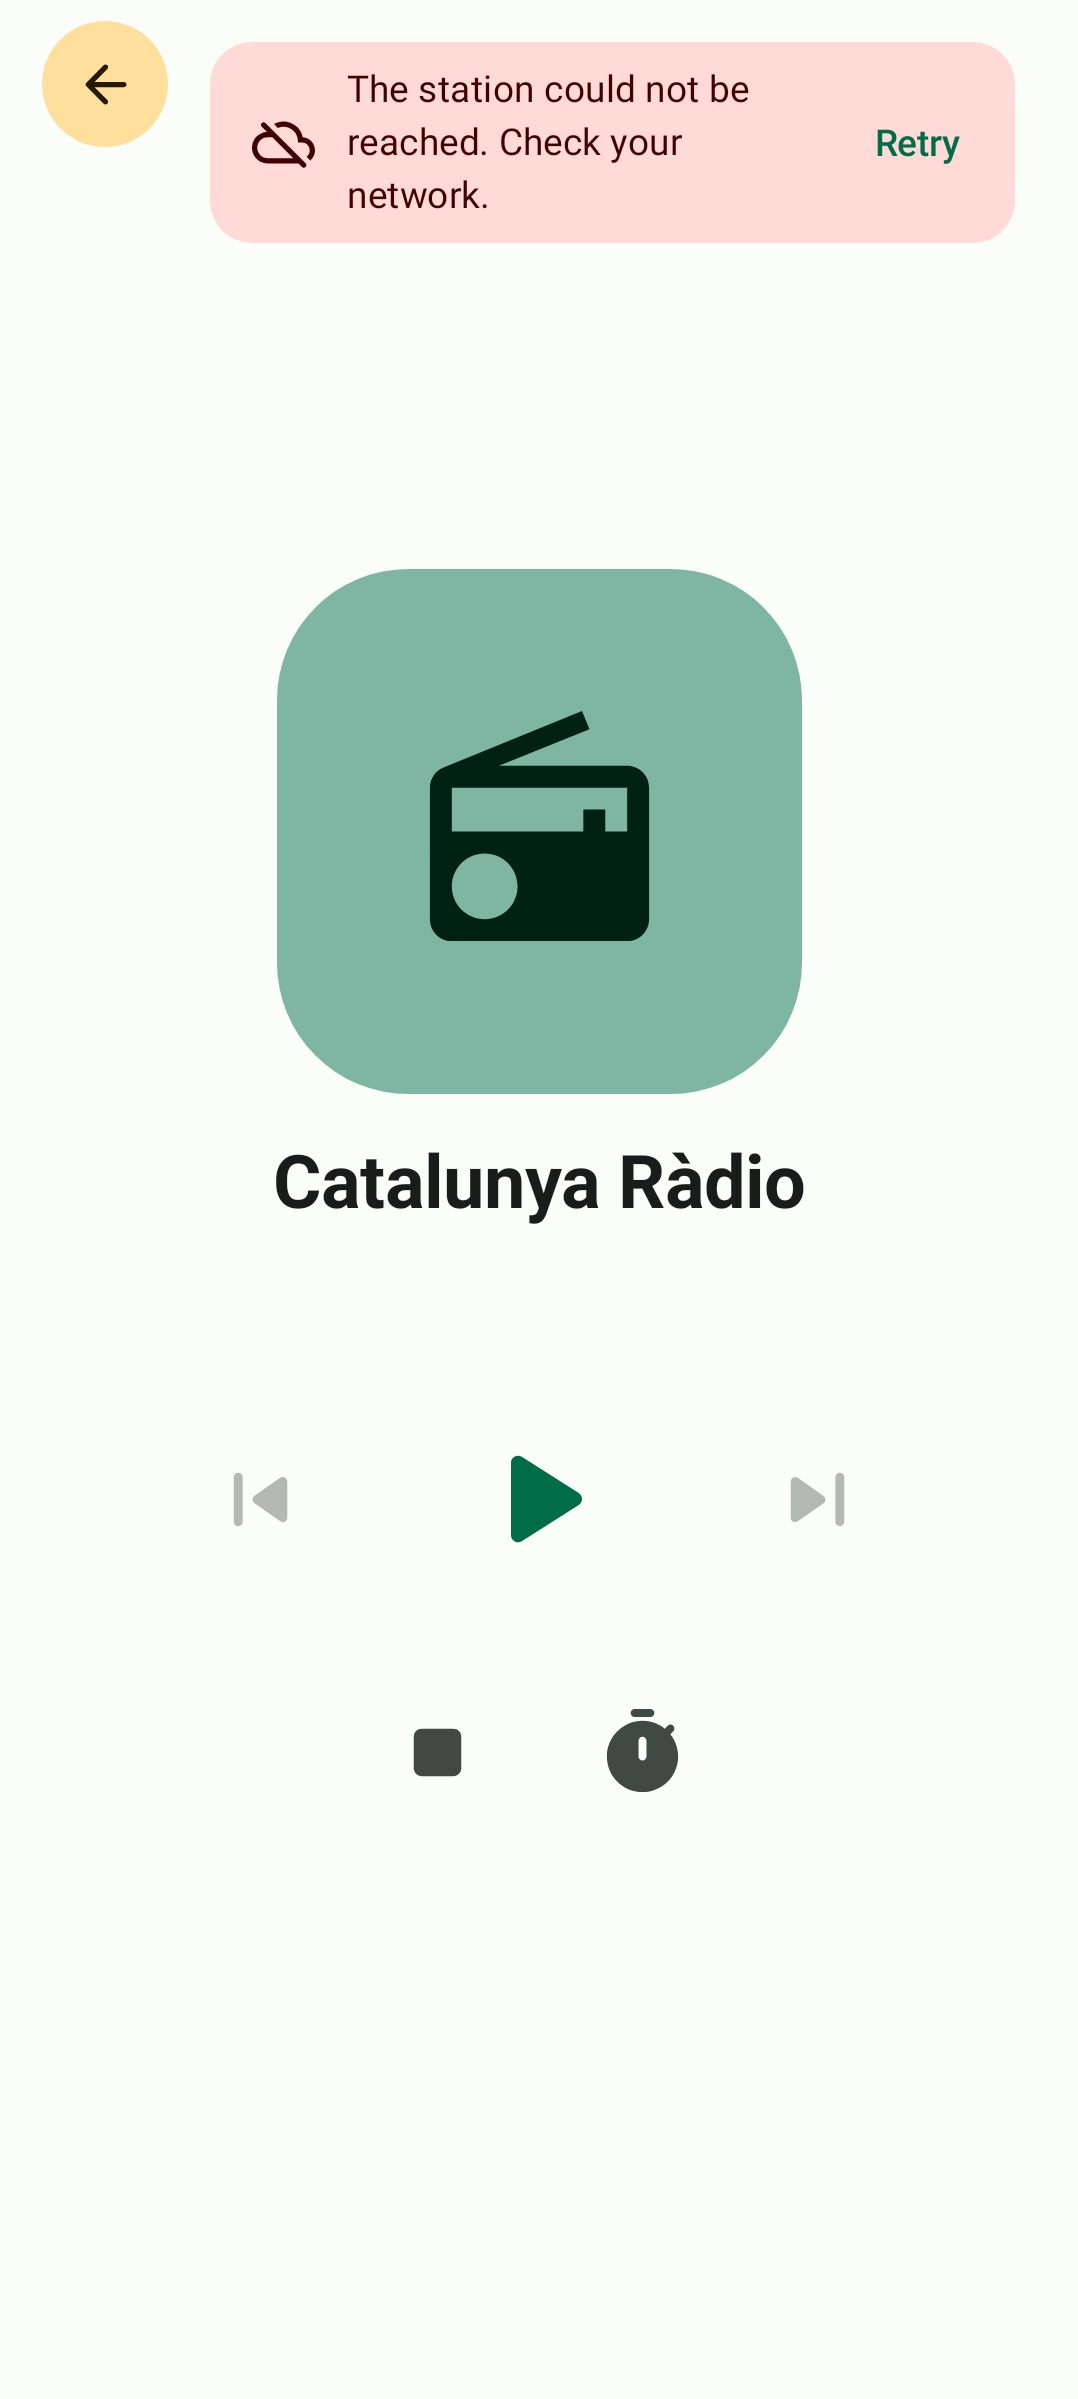
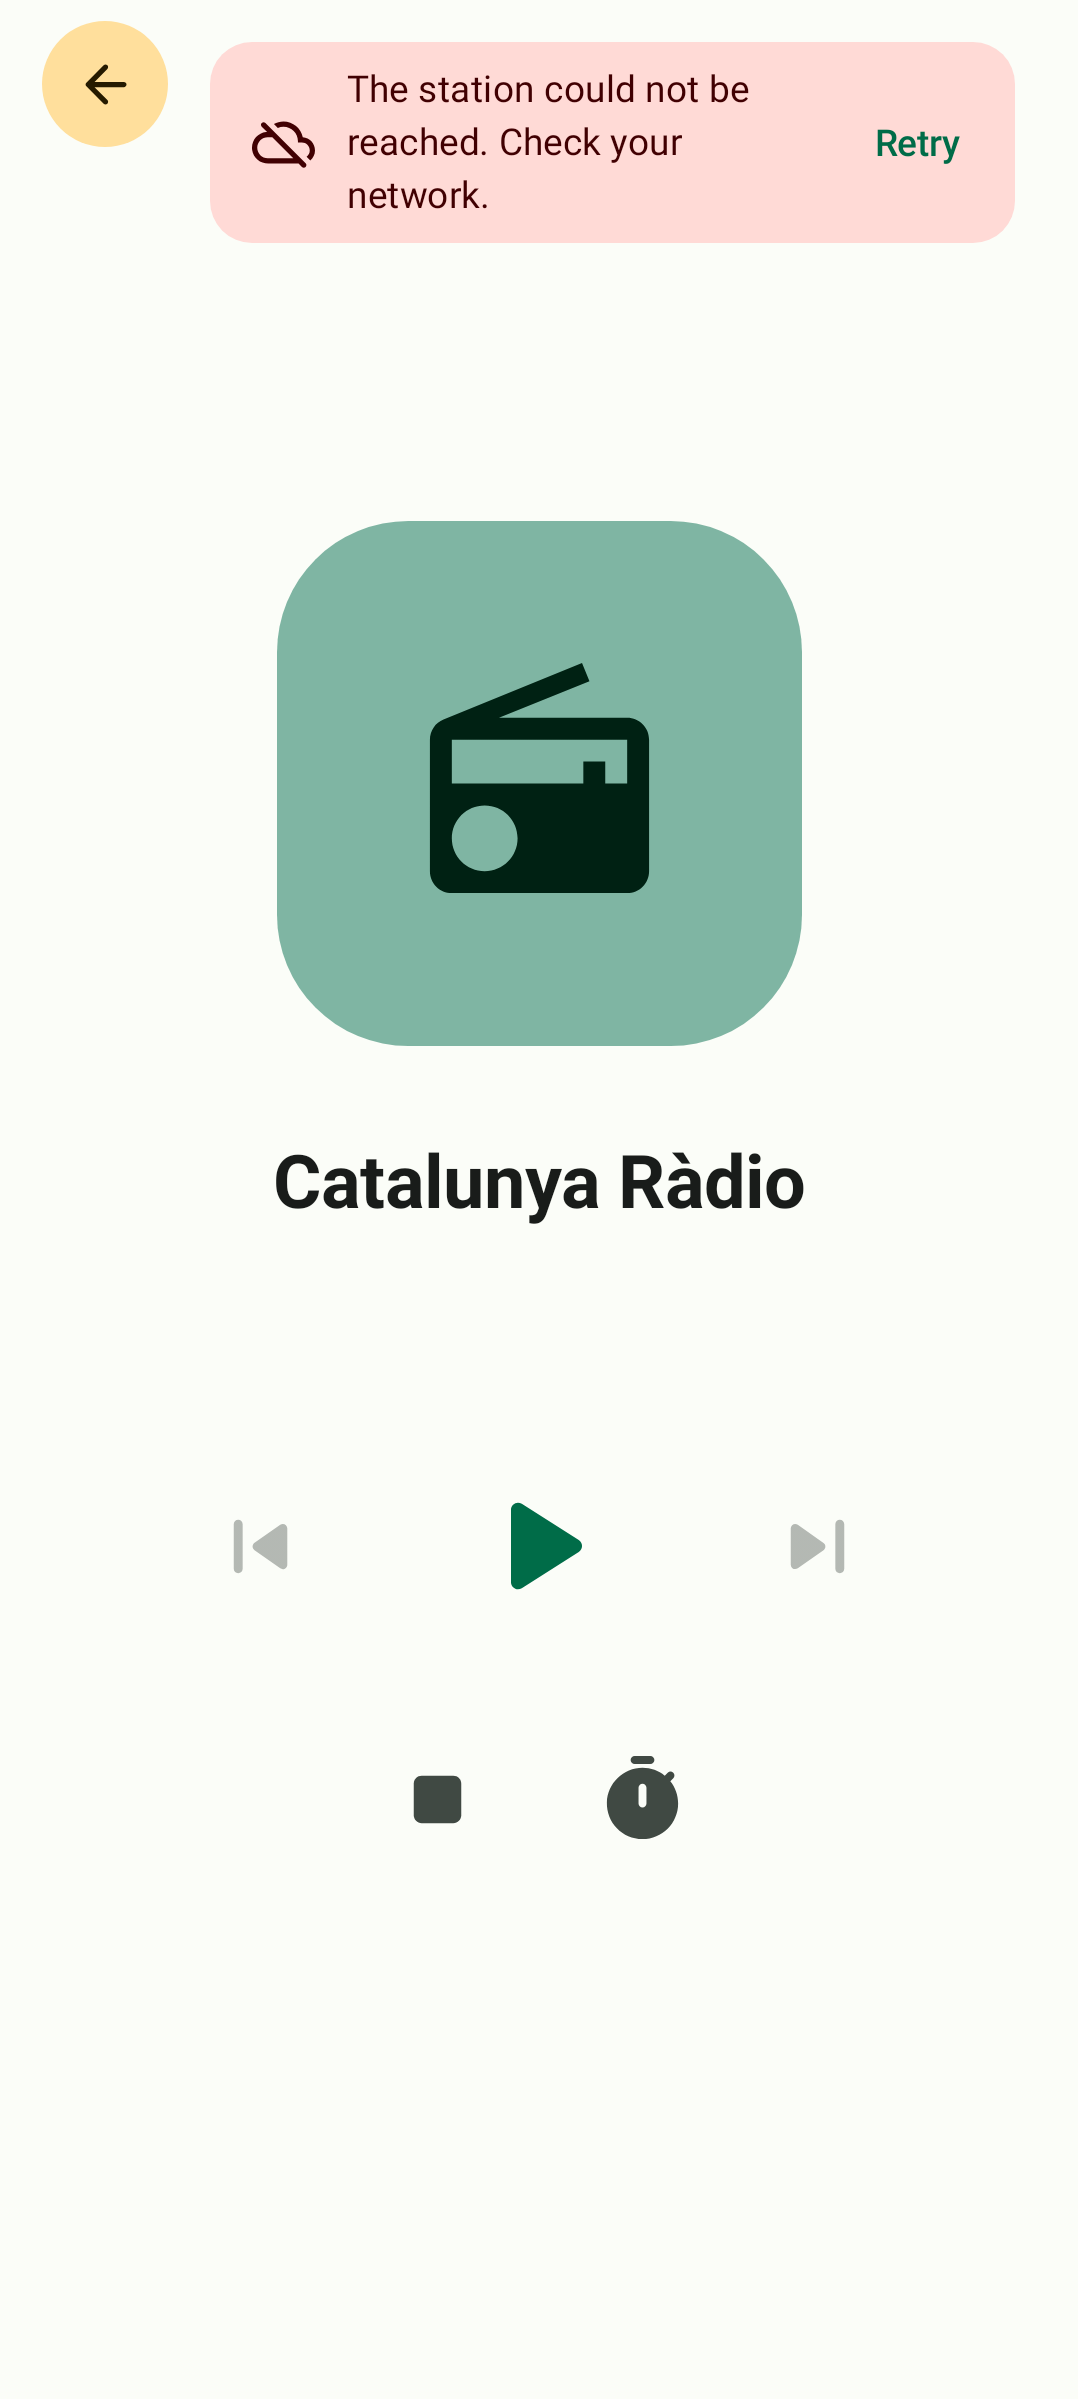
[feature/streaming_radio] fix(radio): reserve two lines for station title and center it

diff --git a/feature/radio/src/main/java/com/alxnophis/jetpack/radio/ui/composable/RadioPlayerScreen.kt b/feature/radio/src/main/java/com/alxnophis/jetpack/radio/ui/composable/RadioPlayerScreen.kt
@@ -55,11 +55,14 @@ import androidx.compose.ui.Alignment
 import androidx.compose.ui.Modifier
 import androidx.compose.ui.draw.alpha
 import androidx.compose.ui.draw.clip
+import androidx.compose.ui.graphics.Color
 import androidx.compose.ui.graphics.vector.ImageVector
 import androidx.compose.ui.res.stringResource
 import androidx.compose.ui.semantics.Role
+import androidx.compose.ui.semantics.clearAndSetSemantics
 import androidx.compose.ui.text.font.FontWeight
 import androidx.compose.ui.text.style.TextAlign
+import androidx.compose.ui.text.style.TextOverflow
 import androidx.compose.ui.tooling.preview.Preview
 import androidx.compose.ui.tooling.preview.PreviewLightDark
 import androidx.compose.ui.unit.Dp
@@ -74,6 +77,7 @@ import com.alxnophis.jetpack.radio.ui.viewmodel.RadioPlayerViewModel
 import org.koin.androidx.compose.koinViewModel
 
 private const val ICON_RATIO = 0.6f
+private const val TITLE_MAX_LINES = 2
 private val PRIMARY_ICON_SIZE = 64.dp
 private val RIPPLE_CORNER_RADIUS = 16.dp
 private val BANNER_MAX_WIDTH = 420.dp
@@ -199,14 +203,30 @@ private fun PlayerInfo(
         verticalArrangement = Arrangement.spacedBy(16.dp, Alignment.CenterVertically),
     ) {
         RadioStationIcon(faviconUrl = uiState.artworkUri, size = iconSize)
-        Text(
-            text = uiState.stationName.orEmpty(),
-            style = MaterialTheme.typography.headlineMedium,
-            fontWeight = FontWeight.Bold,
-            textAlign = TextAlign.Center,
-            color = MaterialTheme.colorScheme.onSurface,
+        Box(
             modifier = Modifier.fillMaxWidth(),
-        )
+            contentAlignment = Alignment.Center,
+        ) {
+            Text(
+                text = uiState.stationName.orEmpty(),
+                style = MaterialTheme.typography.headlineMedium,
+                fontWeight = FontWeight.Bold,
+                textAlign = TextAlign.Center,
+                minLines = TITLE_MAX_LINES,
+                maxLines = TITLE_MAX_LINES,
+                color = Color.Transparent,
+                modifier = Modifier.clearAndSetSemantics {},
+            )
+            Text(
+                text = uiState.stationName.orEmpty(),
+                style = MaterialTheme.typography.headlineMedium,
+                fontWeight = FontWeight.Bold,
+                textAlign = TextAlign.Center,
+                maxLines = TITLE_MAX_LINES,
+                overflow = TextOverflow.Ellipsis,
+                color = MaterialTheme.colorScheme.onSurface,
+            )
+        }
         if (uiState.status != RadioPlaybackStatus.Idle && uiState.status != RadioPlaybackStatus.Error) {
             PlaybackStatusChip(status = uiState.status)
         }
